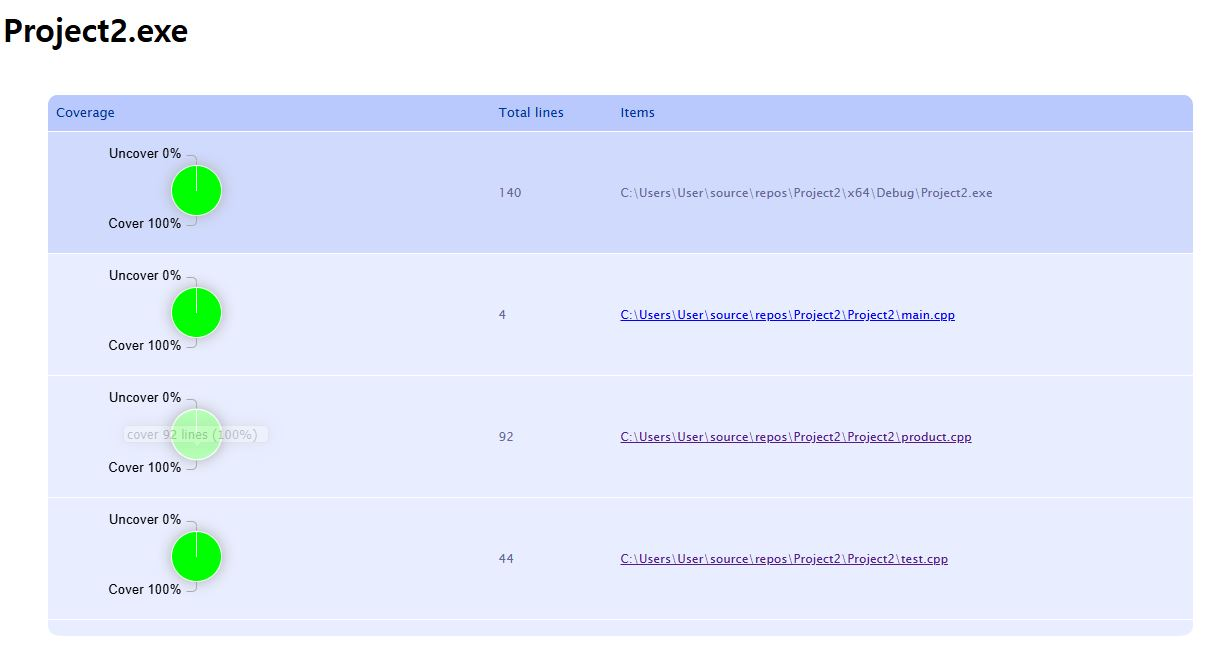
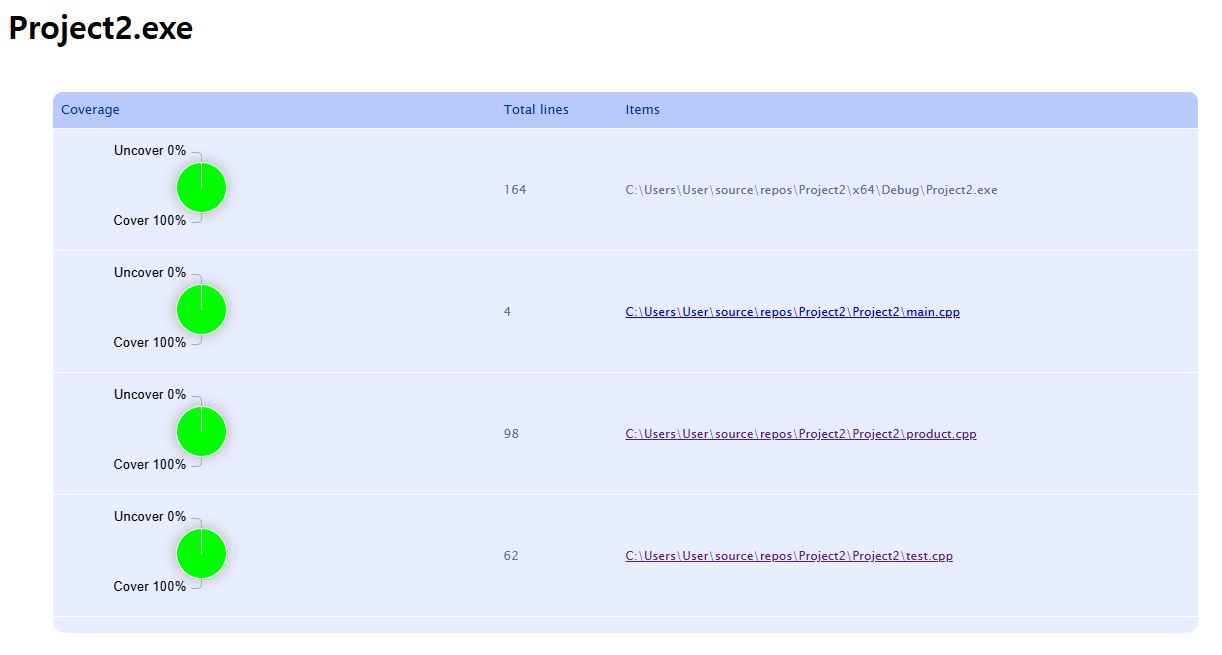
4th

diff --git a/mission2/test.cpp b/mission2/test.cpp
@@ -60,3 +60,21 @@ TEST(ProductTest, steering) {
 	EXPECT_EQ(BOSCH_S, p1->getID());
 	EXPECT_EQ(MOBIS, p2->getID());
 }
+
+TEST(ProductTest, factory) {
+	ChoiceFactory choicefac;
+	ProductFactory* fac1 = choicefac.getFactory(CarType_Q);
+	ProductFactory* fac2 = choicefac.getFactory(Engine_Q);
+	ProductFactory* fac3 = choicefac.getFactory(brakeSystem_Q);
+	ProductFactory* fac4 = choicefac.getFactory(SteeringSystem_Q);
+
+	Product* p1 = fac1->create(SUV);
+	Product* p2 = fac2->create(BROKEN);
+	Product* p3 = fac3->create(CONTINENTAL);
+	Product* p4 = fac4->create(BOSCH_S);
+
+	EXPECT_EQ(SUV, p1->getID());
+	EXPECT_EQ(BROKEN, p2->getID());
+	EXPECT_EQ(CONTINENTAL, p3->getID());
+	EXPECT_EQ(BOSCH_S, p4->getID());
+}
